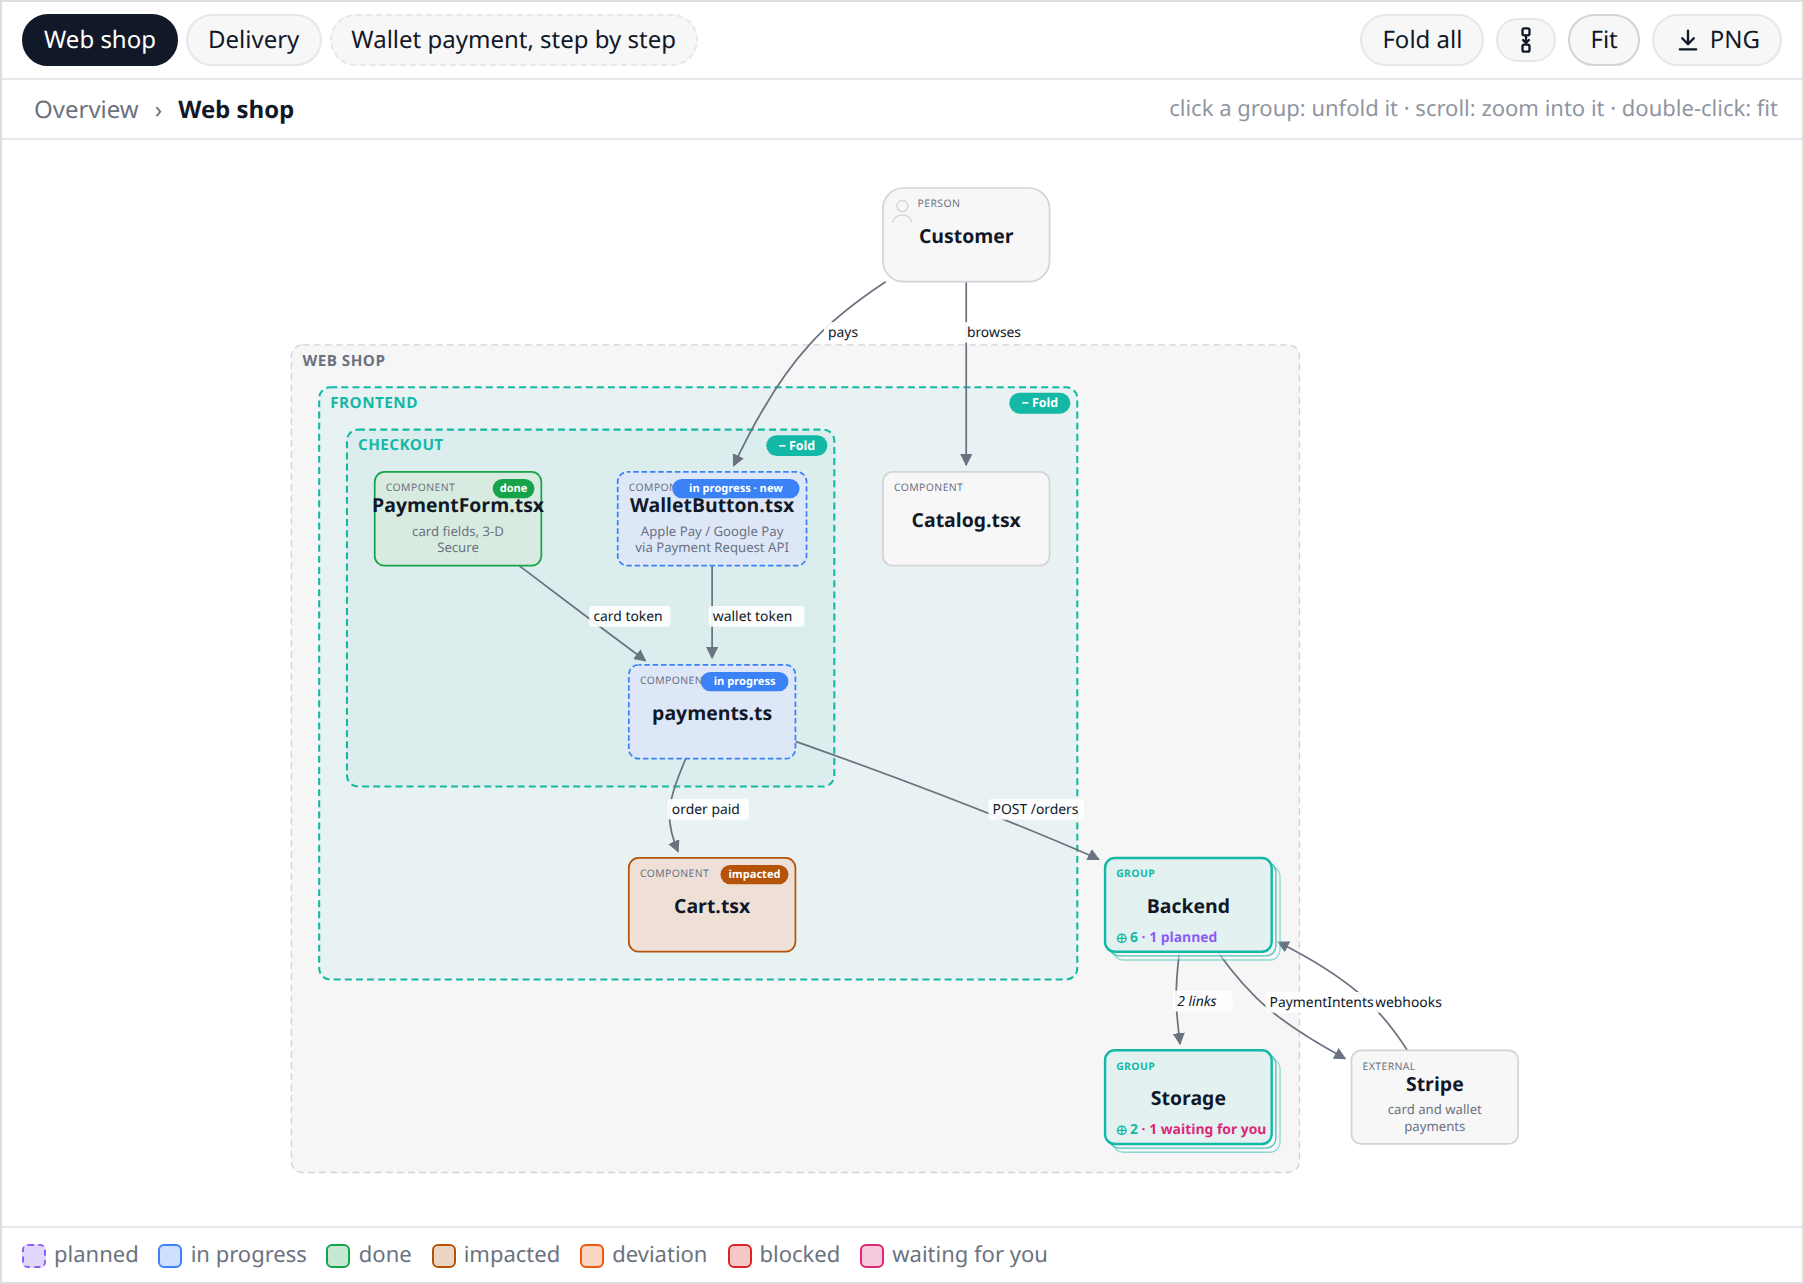
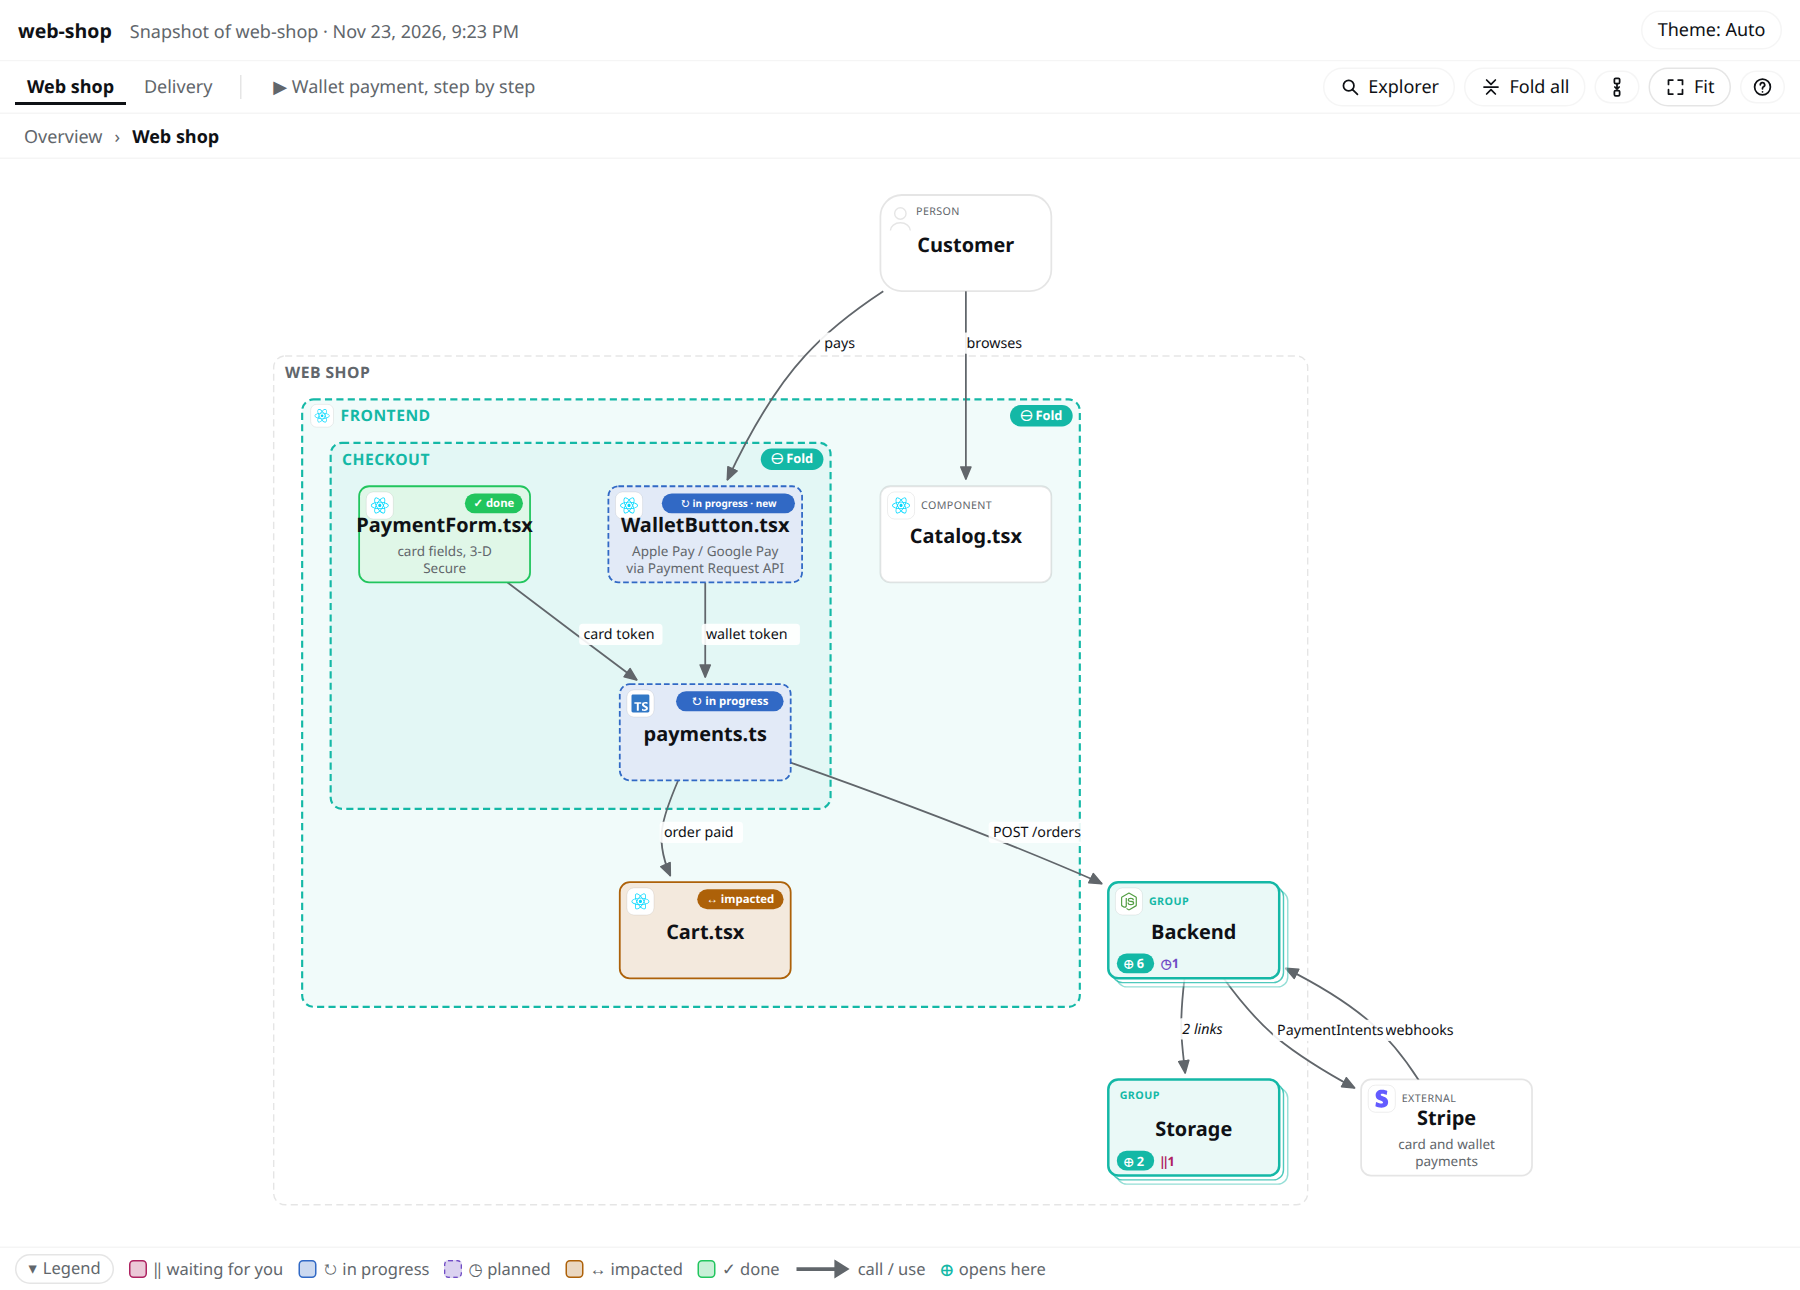
test: cover the live serve page in a browser suite; refresh the screenshot

diff --git a/AGENTS.md b/AGENTS.md
@@ -49,7 +49,7 @@ The generated files (`skills/dsh-diagram/scripts/`, `skills/dsh-diagram/assets/`
 
 - Judge rendering changes on [`examples/reference.c4`](examples/reference.c4): it uses every feature, and comparing the same diagram before and after shows what changed. [`examples/REFERENCE.md`](examples/REFERENCE.md) says where each feature is. `npm run standalone` renders it without creating history.
 - Before accepting UI changes, run the complete local gate documented in [README.md](README.md#development): `DSHD_CHROMIUM=/path/to/chrome npm run verify`. It rebuilds and runs core tests plus every browser suite serially; missing browser prerequisites must fail, never silently downgrade to core-only validation. `npm run verify:fast` explicitly excludes the browser. Playwright Core is pinned with the build dependencies; do not add Chromium to CI.
-- Check UI changes in light and dark themes, in French and English, and with `prefers-reduced-motion`. Check `file://` with all non-file requests blocked, including unfolding (engine recomputation), history and themes/locales. For `serve`, check live updates and invalid edits retaining the last valid drawing. Use only invented reference/example systems for screenshots.
+- Check UI changes in light and dark themes, in French and English, and with `prefers-reduced-motion`. Check `file://` with all non-file requests blocked, including unfolding (engine recomputation), history and themes/locales. `test/browser/serve.mjs` covers the live page (updates, invalid edits keeping the last valid drawing, timeline, comparisons, deleted file). Use only invented reference/example systems for screenshots.
 - Shared browser drivers belong in `test/support/browser.mjs`; isolate scenario state with fresh contexts. Scene invariants live in `test/support/scene.mjs` and are exercised by the bounded `test/scene-contract.test.mjs` corpus. New regressions need failing-before/passing-after assertions, not only diagnostic scripts or screenshots.
 - Releases: add a section to `CHANGELOG.md`; there is no package or tarball. `.github/workflows/ci.yml` builds and runs the core tests on every push and pull request.
 

diff --git a/CHANGELOG.md b/CHANGELOG.md
@@ -9,6 +9,7 @@
 - `// carte v2` files are no longer read: the first line must be `// diagram v1`.
 - CLI: `install-skill`, `skill` and `--version` are removed; `check`, `render` and `serve` remain, with unchanged options and exit codes. Valid verdicts read `[diagram] Diagram v<N> valid: …`.
 - `serve` has a new API (`/api/source`, `/api/history`, `/api/history/<name>`, `/engine.js`, `/icons-NNN.js`), and the page data (`#dshd-data`) now holds `source`, `history`, `icons` and `iconIndex` instead of virtual file paths. Pages written by earlier versions keep working on their own but are not compatible with the new viewer.
+- Development: a browser suite (`test/browser/serve.mjs`) covers the live page served by `serve`.
 
 ### Earlier unreleased changes
 
